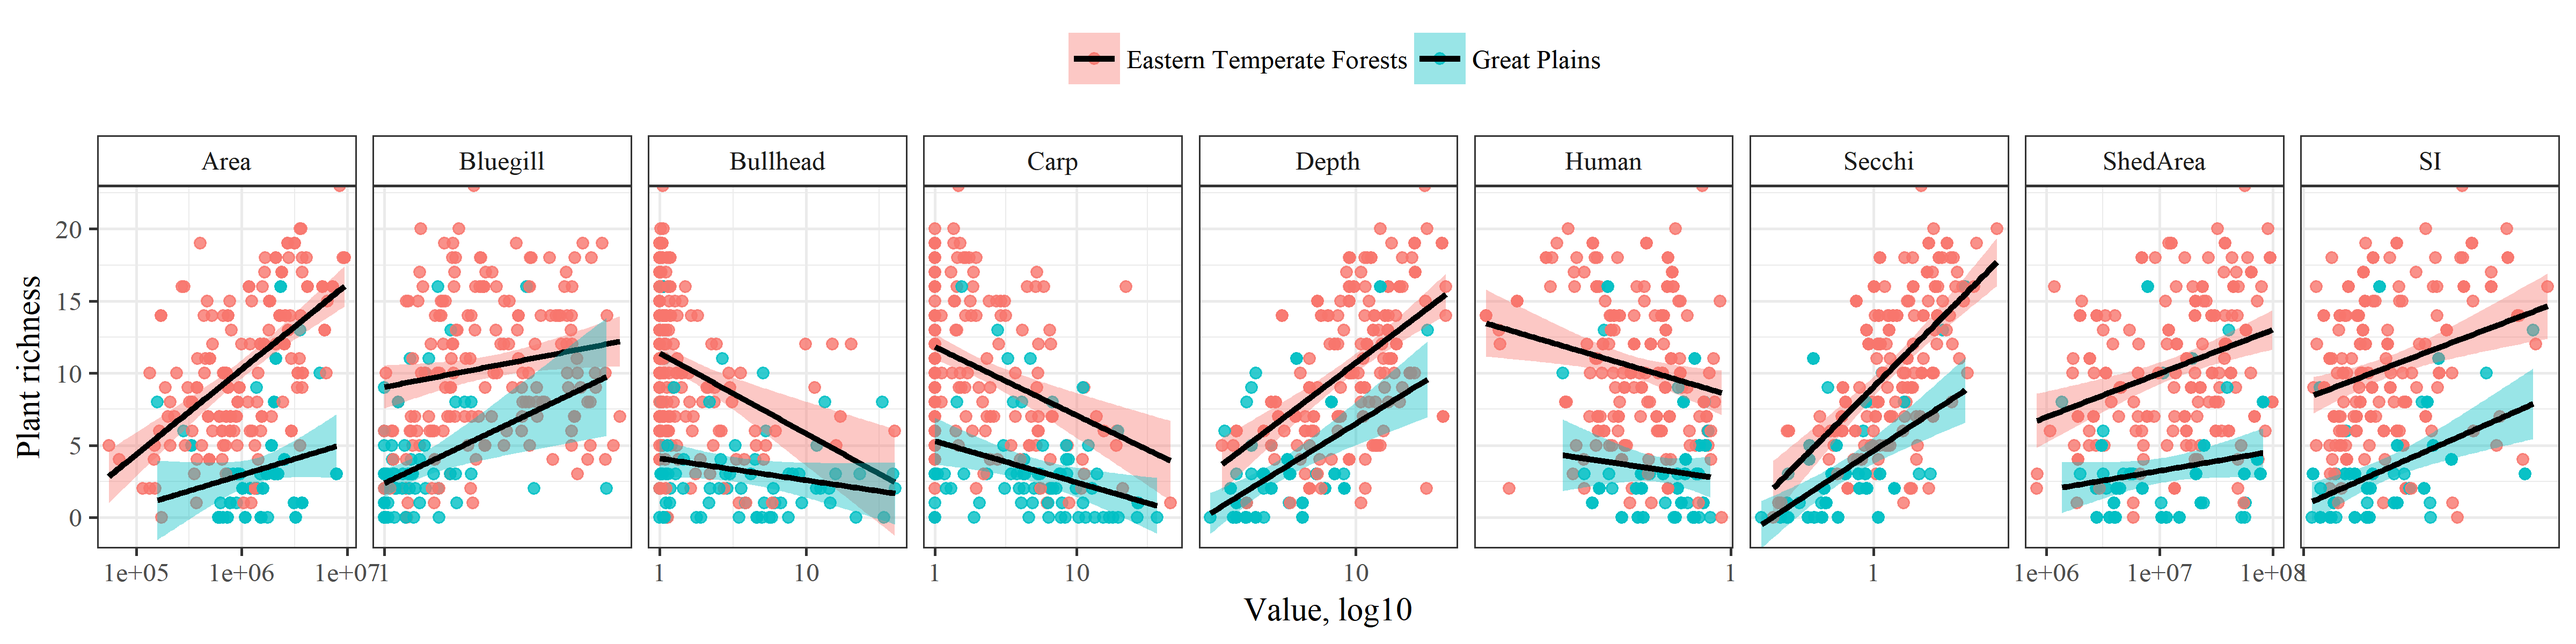
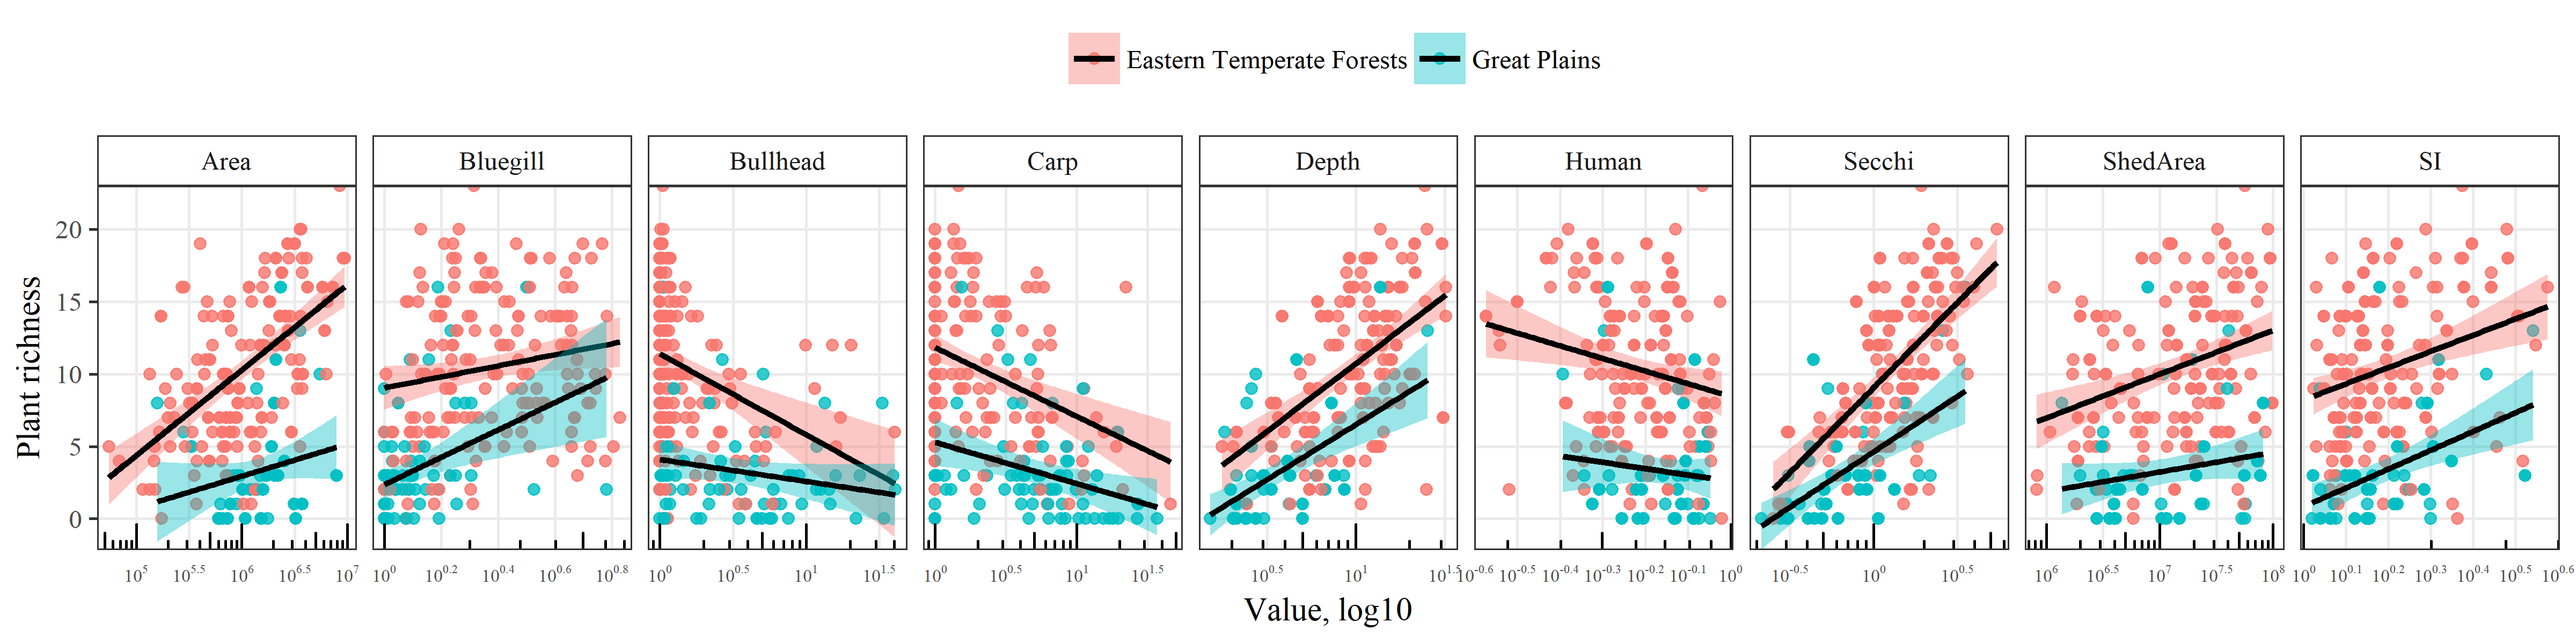
scale annotation on fig 2 for log ticks

diff --git a/README.html b/README.html
@@ -561,7 +561,11 @@ toplo &lt;- select(rev_fishdat,
 # create plot
 p3 &lt;- ggplot(toplo, aes(x = val, y = SpeciesRichness, fill = Ecoregion, colour = Ecoregion)) + 
   geom_point(pch = 21, alpha = 0.8) + 
-  scale_x_log10(&#39;Value, log10&#39;) +
+  scale_x_log10(&#39;Value, log10&#39;,
+                breaks = scales::trans_breaks(&quot;log10&quot;, function(x) 10^x),
+                labels = scales::trans_format(&quot;log10&quot;, scales::math_format(10^.x))
+                ) +
+  annotation_logticks(sides = &quot;b&quot;) +
   scale_y_continuous(&#39;Plant richness&#39;, expand = c(0, 0)) + 
   stat_smooth(method =&#39;lm&#39;, colour = &#39;black&#39;, se = TRUE) + 
   facet_wrap( ~ var, ncol = 9, scales = &#39;free_x&#39;) +
@@ -569,8 +573,11 @@ p3 &lt;- ggplot(toplo, aes(x = val, y = SpeciesRichness, fill = Ecoregion, colou
   theme(
     legend.position = &#39;top&#39;,
     legend.title = element_blank(),
-    strip.background = element_rect(fill = &quot;white&quot;)
-    )
+    axis.text.x = element_text(size = 6),
+    strip.background = element_rect(fill = &quot;white&quot;), 
+    panel.grid.minor = element_blank(), 
+    axis.ticks.x = element_blank()
+  )
 
 # save
 # tiff(&#39;fig3.tif&#39;, height = 5, width = 12, units = &#39;in&#39;, compression = &#39;lzw&#39;, res = 300, family = &#39;serif&#39;)

diff --git a/README.md b/README.md
@@ -317,7 +317,11 @@ toplo <- select(rev_fishdat,
 # create plot
 p3 <- ggplot(toplo, aes(x = val, y = SpeciesRichness, fill = Ecoregion, colour = Ecoregion)) + 
   geom_point(pch = 21, alpha = 0.8) + 
-  scale_x_log10('Value, log10') +
+  scale_x_log10('Value, log10',
+                breaks = scales::trans_breaks("log10", function(x) 10^x),
+                labels = scales::trans_format("log10", scales::math_format(10^.x))
+                ) +
+  annotation_logticks(sides = "b") +
   scale_y_continuous('Plant richness', expand = c(0, 0)) + 
   stat_smooth(method ='lm', colour = 'black', se = TRUE) + 
   facet_wrap( ~ var, ncol = 9, scales = 'free_x') +
@@ -325,8 +329,11 @@ p3 <- ggplot(toplo, aes(x = val, y = SpeciesRichness, fill = Ecoregion, colour =
   theme(
     legend.position = 'top',
     legend.title = element_blank(),
-    strip.background = element_rect(fill = "white")
-    )
+    axis.text.x = element_text(size = 6),
+    strip.background = element_rect(fill = "white"), 
+    panel.grid.minor = element_blank(), 
+    axis.ticks.x = element_blank()
+  )
 
 # save
 # tiff('fig3.tif', height = 5, width = 12, units = 'in', compression = 'lzw', res = 300, family = 'serif')
